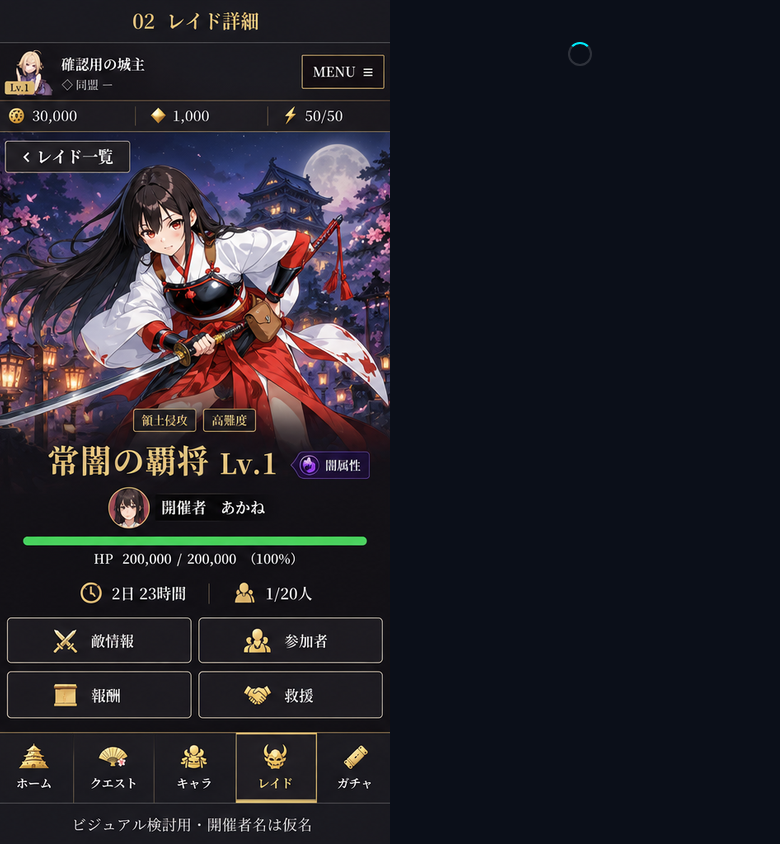
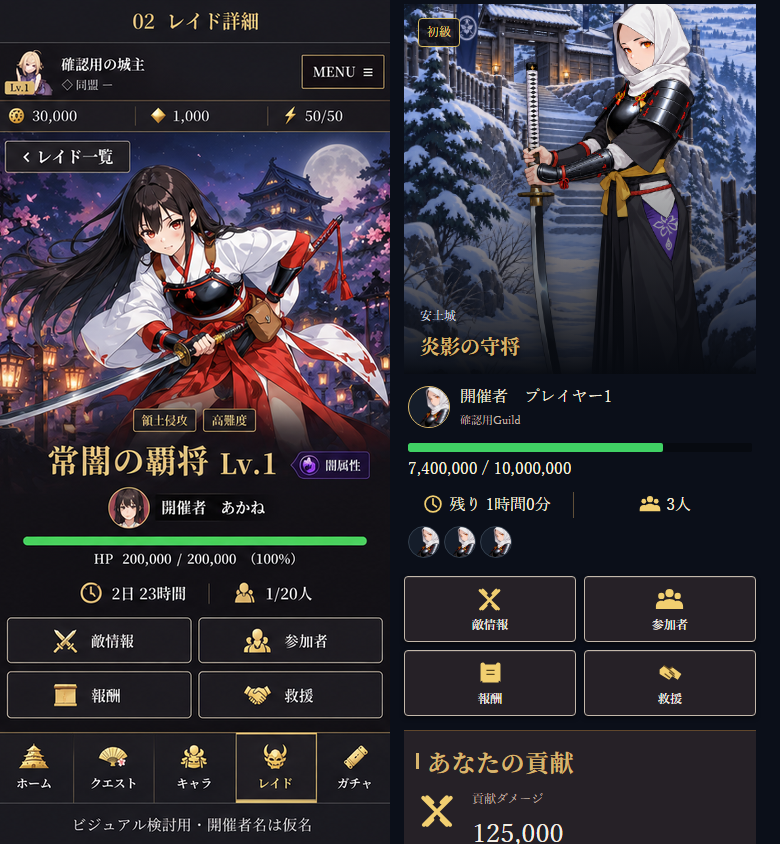
fix: align raid card and detail visual states

diff --git a/src/app/components/raid/RaidCardOverlay.css b/src/app/components/raid/RaidCardOverlay.css
@@ -2,17 +2,19 @@
 .raid-approved-ui__card { display: block; height: 240px; min-height: 240px; isolation: isolate; }
 .raid-approved-ui__card-art { position: absolute; inset: 0; z-index: 0; }
 .raid-approved-ui__card-art img:first-child { position: absolute; inset: 0; width: 100%; height: 100%; object-fit: cover; }
-.raid-approved-ui__card-art img:last-child { position: absolute; right: -8%; bottom: -10%; width: 76%; height: 124%; object-fit: contain; object-position: center top; transform: none; filter: drop-shadow(0 3px 6px #000); }
-.raid-approved-ui__card-copy { position: absolute; inset: 0; z-index: 1; padding: 14px 12px 54px; background: linear-gradient(90deg, rgba(15,15,22,.76) 0%, rgba(15,15,22,.44) 43%, rgba(15,15,22,.08) 75%, transparent 100%); }
-.raid-approved-ui__card-copy h3 { max-width: 62%; }
-.raid-approved-ui__card-copy .raid-approved-ui__owner { max-width: 62%; }
-.raid-approved-ui__card-copy .raid-approved-ui__battle { max-width: 62%; }
+.raid-approved-ui__card-art img:last-child { position: absolute; left: -8%; right: auto; bottom: -10%; width: 62%; height: 124%; object-fit: contain; object-position: center top; transform: none; filter: drop-shadow(0 3px 6px #000); }
+.raid-approved-ui__card-copy { position: absolute; inset: 0; z-index: 1; padding: 14px 12px 54px 44%; background: linear-gradient(90deg, transparent 0%, rgba(15,15,22,.12) 28%, rgba(15,15,22,.48) 50%, rgba(15,15,22,.78) 100%); }
+.raid-approved-ui__card-copy h3, .raid-approved-ui__card-copy .raid-approved-ui__owner, .raid-approved-ui__card-copy .raid-approved-ui__battle { max-width: 100%; }
 .raid-approved-ui__card-copy > .outlaw-button { z-index: 2; }
+.raid-approved-ui__card-copy > .outlaw-button { white-space: nowrap; min-width: 92px; flex-shrink: 0; }
+.raid-approved-ui__card-copy .raid-approved-ui__facts { position: absolute; left: 44%; right: 12px; bottom: 12px; display: grid; grid-template-columns: minmax(0,1fr) minmax(0,1fr); gap: 5px; white-space: nowrap; }
+.raid-approved-ui__card-copy .raid-approved-ui__facts span { min-width: 0; white-space: nowrap; }
 
 .raid-approved__list-card { display: block; height: 240px; min-height: 240px; isolation: isolate; }
 .raid-approved__list-art { position: absolute; inset: 0; z-index: 0; }
 .raid-approved__list-art img:first-child { position: absolute; inset: 0; width: 100%; height: 100%; object-fit: cover; }
-.raid-approved__list-art img:last-child { position: absolute; right: -8%; bottom: -10%; width: 76%; height: 124%; object-fit: contain; object-position: center top; transform: none; filter: drop-shadow(0 3px 6px #000); }
-.raid-approved__list-copy { position: absolute; inset: 0; z-index: 1; padding: 14px 12px 54px; background: linear-gradient(90deg, rgba(15,15,22,.76) 0%, rgba(15,15,22,.44) 43%, rgba(15,15,22,.08) 75%, transparent 100%); }
-.raid-approved__list-copy h3, .raid-approved__list-copy .raid-approved__attribute, .raid-approved__list-copy .raid-approved__owner, .raid-approved__list-copy .raid-approved__hp { max-width: 62%; }
-.raid-approved__card-bottom { z-index: 2; }
+.raid-approved__list-art img:last-child { position: absolute; left: -8%; right: auto; bottom: -10%; width: 62%; height: 124%; object-fit: contain; object-position: center top; transform: none; filter: drop-shadow(0 3px 6px #000); }
+.raid-approved__list-copy { position: absolute; inset: 0; z-index: 1; padding: 14px 12px 54px 44%; background: linear-gradient(90deg, transparent 0%, rgba(15,15,22,.12) 28%, rgba(15,15,22,.48) 50%, rgba(15,15,22,.78) 100%); }
+.raid-approved__list-copy h3, .raid-approved__list-copy .raid-approved__attribute, .raid-approved__list-copy .raid-approved__owner, .raid-approved__list-copy .raid-approved__hp { max-width: 100%; }
+.raid-approved__card-bottom { z-index: 2; left: 44%; background: linear-gradient(90deg, transparent, rgba(15,15,22,.5)); }
+.raid-approved__card-bottom button { white-space: nowrap; min-width: 86px; }

diff --git a/src/app/components/raid/RaidRoomDetail.tsx b/src/app/components/raid/RaidRoomDetail.tsx
@@ -47,6 +47,7 @@ function Portrait({ url, name }: { url: string; name: string }) {
 
 export default function RaidRoomDetail({ room, briefing, display, participants, currentUserId, now, busy, onParticipants, onRewards, onEnemyInfo, action, rescue }: RaidRoomDetailProps) {
   const [rescueOpen, setRescueOpen] = useState(false);
+  const [compactHeader, setCompactHeader] = useState(false);
   const details = display.status === "success" && display.data?.roomId === room.roomId ? display.data : null;
   const brief = briefing.status === "success" && briefing.data?.roomId === room.roomId ? briefing.data : null;
   const enemy = brief?.raidVariantId ? resolveRaidTopEnemy(brief.raidVariantId) : null;
@@ -69,11 +70,20 @@ export default function RaidRoomDetail({ room, briefing, display, participants, 
     { src: ownerUrl, fallbackSrc: PERSON_FALLBACK, required: true },
     ...faceImages.map(entry => ({ src: entry.url, fallbackSrc: PERSON_FALLBACK, required: true })),
     ...ENTRANCES.map(entry => ({ src: entry.icon, fallbackSrc: BACKGROUND_FALLBACK, required: true })),
+    ...(rescue ? [{ src: "/ui/raid/handshake.svg", fallbackSrc: BACKGROUND_FALLBACK, required: true }] : []),
     ...(enemy ? [{ src: enemy.backgroundUrl, fallbackSrc: BACKGROUND_FALLBACK, required: true }, { src: enemy.leaderImageUrl, fallbackSrc: PERSON_FALLBACK, required: true }] : []),
   ];
   const manifestKey = JSON.stringify(manifest);
   const [assets, setAssets] = useState<{ key: string; results: AssetResult[] } | null>(null);
   const [retry, setRetry] = useState(0);
+  useEffect(() => {
+    const scrollOwner = document.querySelector<HTMLElement>('.ui-hub-page-scroll');
+    if (!scrollOwner) return;
+    const update = () => setCompactHeader(scrollOwner.scrollTop > 180);
+    update();
+    scrollOwner.addEventListener('scroll', update, { passive: true });
+    return () => scrollOwner.removeEventListener('scroll', update);
+  }, []);
   useEffect(() => {
     let cancelled = false;
     void preloadAssetManifest(JSON.parse(manifestKey)).then(results => { if (!cancelled) setAssets({ key: manifestKey, results }); });
@@ -88,6 +98,7 @@ export default function RaidRoomDetail({ room, briefing, display, participants, 
   const guild = details?.ownerGuild.status === "available" ? details.ownerGuild.value?.name ?? "Guild未所属" : "Guild未確認";
   const expires = room.expiresAt.status === "available" ? Date.parse(room.expiresAt.value) : NaN;
   return <div className="raid-detail" data-testid="raid-room-detail">
+    {compactHeader && <div className="raid-detail__compact-header" aria-label="レイド詳細コンパクト表示"><strong>{enemy?.bossName ?? brief?.bossName ?? "敵情報未確認"} <small>Lv.1</small></strong><span>{owner?.name ?? "開催者未確認"}</span><b>{hp ? `${number(hp.current)} / ${number(hp.max)}` : "HP未確認"}</b></div>}
     <section className="raid-detail__hero" aria-label="対戦する敵">
       {enemy && <><img className="raid-detail__background" src={resolve(enemy.backgroundUrl)} alt="" /><img className="raid-detail__enemy" src={resolve(enemy.leaderImageUrl)} alt="" /></>}
       <span className="raid-detail__difficulty">{getRaidDifficultyLabel(room.difficultyId)}</span>

diff --git a/src/app/components/raid/RaidTopApproved.tsx b/src/app/components/raid/RaidTopApproved.tsx
@@ -34,7 +34,10 @@ function Hp({ entry, now, compact = false }: { entry: RaidTopEntry; now: number 
   const hp = entry.room.hp.status === 'available' && entry.room.hp.value.max > 0 ? entry.room.hp.value : null;
   const percent = hp ? Math.max(0, Math.min(100, hp.current / hp.max * 100)) : null;
   const lifecycle = getRaidRoomLifecyclePresentation(entry.room, now);
-  return <div className="raid-approved-ui__battle"><div className="raid-approved-ui__hpbar"><span style={{ width: `${percent ?? 0}%` }} /></div><div className="raid-approved-ui__hptext">{compact ? `HP ${percent === null ? '未確認' : `${percent.toFixed(0)}%`}` : hp ? `HP ${hp.current.toLocaleString()} / ${hp.max.toLocaleString()}　(${percent?.toFixed(0)}%)` : 'HP 未確認'}</div><div className="raid-approved-ui__facts"><span>{icon('clock')}{lifecycle.remainingLabel}</span><span>{icon('people')}{entry.room.participantCount.status === 'available' ? `${entry.room.participantCount.value}/20人` : '未確認'}</span></div></div>;
+  const remaining = now !== null && entry.room.expiresAt.status === 'available' ? Math.max(0, Date.parse(entry.room.expiresAt.value) - now) : null;
+  const minutes = remaining === null ? null : Math.ceil(remaining / 60000);
+  const timeLabel = minutes === null ? '未確認' : minutes >= 60 ? `${Math.floor(minutes / 60)}時間${minutes % 60}分` : `${minutes}分`;
+  return <div className="raid-approved-ui__battle"><div className="raid-approved-ui__hpbar"><span style={{ width: `${percent ?? 0}%` }} /></div><div className="raid-approved-ui__hptext">{compact ? `HP ${percent === null ? '未確認' : `${percent.toFixed(0)}%`}` : hp ? `HP ${hp.current.toLocaleString()} / ${hp.max.toLocaleString()}　(${percent?.toFixed(0)}%)` : 'HP 未確認'}</div><div className="raid-approved-ui__facts"><span>{icon('clock')}{timeLabel}</span><span>{icon('people')}{entry.room.participantCount.status === 'available' ? `${entry.room.participantCount.value}/20人` : '未確認'}</span></div></div>;
 }
 
 function Card({ entry, now, resolve, onOpenRoom, disabled, rescue }: { entry: RaidTopEntry; now: number | null; resolve: Props['resolve']; onOpenRoom: Props['onOpenRoom']; disabled?: boolean; rescue?: boolean }) {

diff --git a/src/app/components/raid/RaidRoomDetailApproved.css b/src/app/components/raid/RaidRoomDetailApproved.css
@@ -3,6 +3,8 @@
 .raid-detail__eligibility-steps{display:flex;gap:8px}
 .raid-detail__eligibility-steps span{display:grid;place-items:center;width:28px;height:28px;border:1px solid #a88c50;border-radius:50%;color:#b8aa83;font-family:Georgia,serif;font-size:14px}
 .raid-detail__eligibility-steps span.is-done{background:#b58a35;color:#171318;border-color:#e5c96e;box-shadow:0 0 0 2px rgba(229,201,110,.18)}
+.raid-detail__compact-header{position:sticky;top:0;z-index:8;display:grid;grid-template-columns:minmax(0,1fr) auto;gap:2px 12px;padding:9px 12px;background:rgba(15,16,22,.96);border-bottom:1px solid #6f5834;box-shadow:0 4px 12px rgba(0,0,0,.35)}
+.raid-detail__compact-header strong{grid-column:1 / -1;color:#efd584;font:700 20px Georgia,serif;white-space:nowrap;overflow:hidden;text-overflow:ellipsis}.raid-detail__compact-header strong small{font-size:.7em}.raid-detail__compact-header span,.raid-detail__compact-header b{font-size:12px;color:#f7ebce}.raid-detail__compact-header b{text-align:right}
 .raid-detail__action .outlaw-button::after{content:'消費行動力 5';font-size:12px;margin-left:auto;padding-left:24px;background:url('/ui/raid/clock.svg') left center/18px no-repeat}
 .raid-detail__battle-facts>div:first-child strong::before,.raid-detail__battle-facts>div:last-child strong::before{content:'';display:inline-block;width:22px;height:22px;margin-right:5px;vertical-align:-5px;background:center/contain no-repeat}
 .raid-detail__battle-facts>div:first-child strong::before{background-image:url('/ui/raid/clock.svg')}

diff --git a/src/app/qa/raid-approved/ApprovedRaidPreviewCorrection.css b/src/app/qa/raid-approved/ApprovedRaidPreviewCorrection.css
@@ -1,0 +1,11 @@
+.raid-approved__list-card{position:relative;overflow:hidden}
+.raid-approved__list-art{position:absolute;inset:0;z-index:0;background:#17131b}
+.raid-approved__list-art img:first-child{position:absolute;inset:0;width:100%;height:100%;object-fit:cover}
+.raid-approved__list-art img:last-child{position:absolute;left:-8%;right:auto;bottom:-10%;width:62%;height:124%;object-fit:contain;object-position:center bottom;transform:none}
+.raid-approved__list-copy{position:absolute;inset:0;z-index:1;padding:14px 12px 52px 44%;background:linear-gradient(90deg,transparent 28%,rgba(11,10,18,.2) 45%,rgba(11,10,18,.88) 100%)}
+.raid-approved__list-copy h3{max-width:100%;white-space:nowrap;overflow:hidden;text-overflow:ellipsis}
+.raid-approved__list-copy .raid-approved__owner strong{white-space:nowrap}
+.raid-approved__card-bottom{position:absolute;left:40%;right:0;bottom:0;z-index:2;background:linear-gradient(90deg,transparent,rgba(11,10,18,.9) 18%);padding:8px 8px;display:flex;align-items:center;justify-content:space-between;gap:5px}
+.raid-approved__card-bottom .raid-approved__meta{margin:0;display:flex;gap:4px;white-space:nowrap;font-size:10px;min-width:0}
+.raid-approved__card-bottom .raid-approved__meta .raid-approved__icon{width:17px;height:17px}
+.raid-approved__card-bottom button{white-space:nowrap;min-width:58px;flex:0 0 auto;padding:6px 5px;font-size:10px}

diff --git a/src/app/components/raid/RaidRoomBrowser.tsx b/src/app/components/raid/RaidRoomBrowser.tsx
@@ -178,10 +178,8 @@ export default function RaidRoomBrowser({ controller, onBattleReady, onBriefingR
           {snapshot.briefing.status === "error" && <p role="alert">参加条件を取得できませんでした。レイドを更新してください。</p>}
 
           {briefing?.membershipStatus === "joined" ? <>
-            <p>参加済み</p>
-            <p className="raid-room-muted">出撃時に編成を確認します。</p>
             {!briefing.battleStartEnabled || !onBriefingReady
-              ? <p>現在は出撃できません。</p>
+              ? null
               : <OutlawButton loadingLabel="" fullWidth disabled={busy || !!lifecycle?.blockJoin} aria-label="出撃準備" onClick={async () => {
                 setTransitioning(true); setTransitionError(null);
                 try { await onBriefingReady(briefing); }
